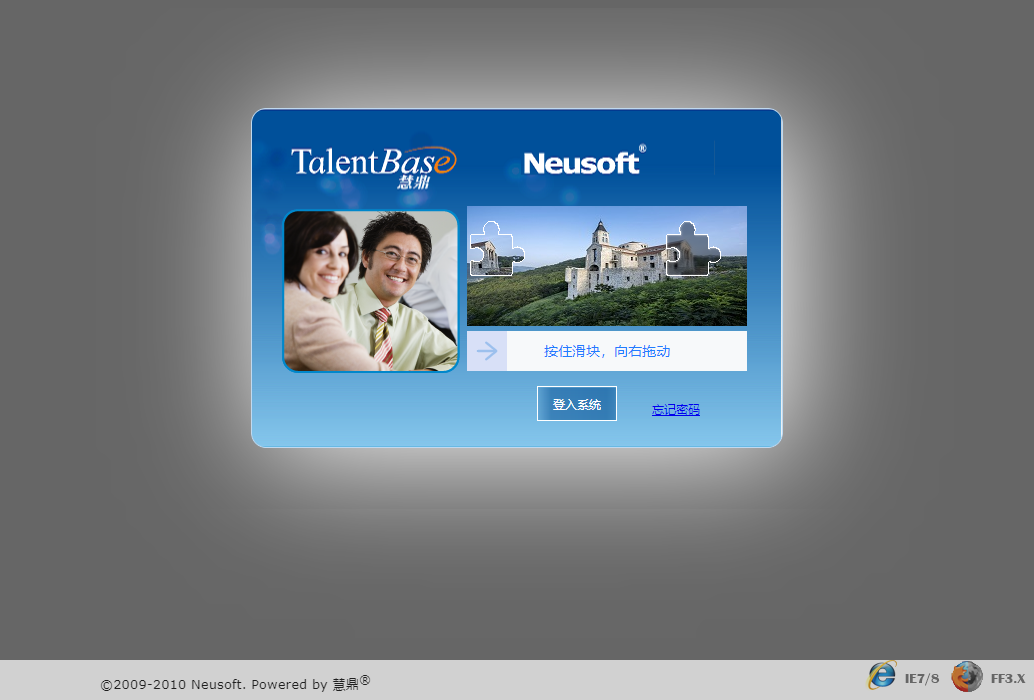
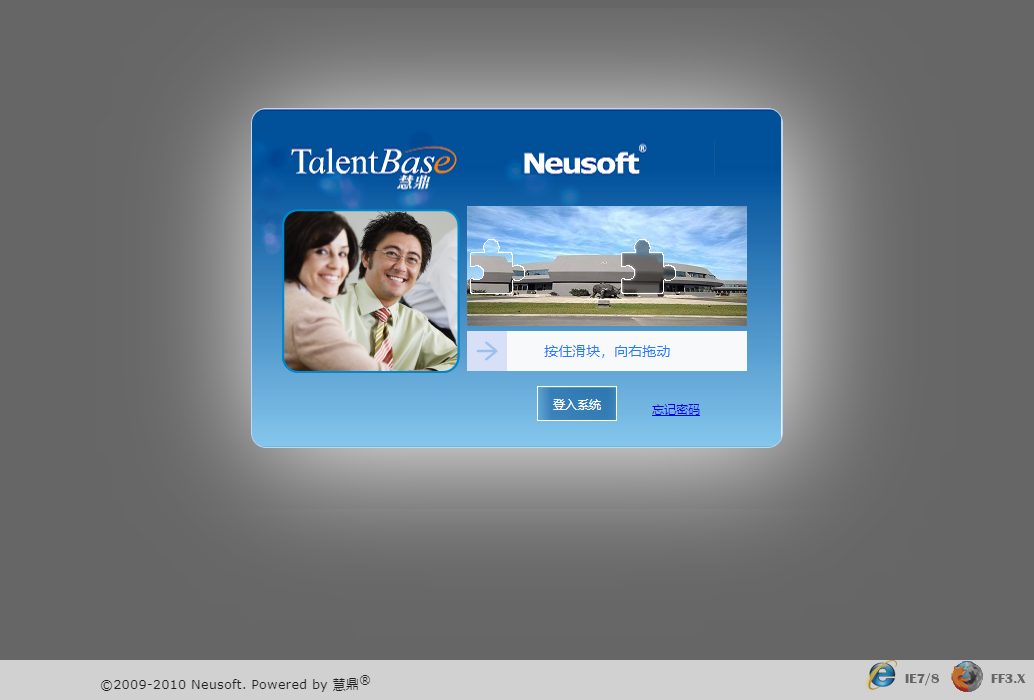
Add sign click and exit click invoke

Changed region(s): [[0.4333, 0.27, 0.7427, 0.48]]

diff --git a/Python_Kq/page1.html b/Python_Kq/page1.html
@@ -112,9 +112,9 @@
 				<input type="hidden" name="login" value="true">
 				<div style="display:none; ">
 				<input type="text" name="neusoft_attendance_online">
-				<input type="text" name="KEY1647932010692">
-				<input type="hidden" name="neusoft_key" value="ID1647932010692PWD1647932010692">				
-				<input type="hidden" name="YZMWkpJv5yKplL2vLPG7hBJBxWqp16CJT1XQ0qDdFRsWDV57VJqnJTn!-1312877719!1647932010692" class="imageRandeCode" value="">				
+				<input type="text" name="KEY1647941685932">
+				<input type="hidden" name="neusoft_key" value="ID1647941685932PWD1647941685932">				
+				<input type="hidden" name="YZM21klv5YVPyGCxJPJSwwdCCGL5sjhGvRyt1PC48p6Zcw72JTyrTWD!-1312877719!1647941685932" class="imageRandeCode" value="">				
 				</div>
 				<div id="tbLogonPanel" class="tbLogonPanel">
 					<div class="logonSubmit">
@@ -123,17 +123,17 @@
 							</div>
 							<div>
 								<div class="brand eleWrapper" style="font-weight: bold;">东软考勤系统</div>
-								<div class="eleWrapperNew" title="请输入用户名"><input type="text" class="textfield userName" name="IDWkpJv5yKplL2vLPG7hBJBxWqp16CJT1XQ0qDdFRsWDV57VJqnJTn!-1312877719!1647932010692" id="nt1647932010692"></div>
-								<div class="eleWrapperNew" title="请输入密码"><input type="password" class="textfield password" name="KEYWkpJv5yKplL2vLPG7hBJBxWqp16CJT1XQ0qDdFRsWDV57VJqnJTn!-1312877719!1647932010692"></div>
+								<div class="eleWrapperNew" title="请输入用户名"><input type="text" class="textfield userName" name="ID21klv5YVPyGCxJPJSwwdCCGL5sjhGvRyt1PC48p6Zcw72JTyrTWD!-1312877719!1647941685932" id="nt1647941685932"></div>
+								<div class="eleWrapperNew" title="请输入密码"><input type="password" class="textfield password" name="KEY21klv5YVPyGCxJPJSwwdCCGL5sjhGvRyt1PC48p6Zcw72JTyrTWD!-1312877719!1647941685932"></div>
 								<!-- <p></p> -->
 
 			    
                                 <div class="jigsaw" style="display:none;">
                                 <div class="jigimgB">
-                                <img src="/upload/jigsawImg/1951b185-22f6-49fa-b0ea-2ccca6e295d4.png" id="bigImage" onload="clearB()">                          
+                                <img src="/upload/jigsawImg/e49fd2b1-fcbe-462b-92be-4640ec7aff43.png" id="bigImage" onload="clearB()">                          
                                 </div>
-                                <div class="jigimgS" style="top: 15px; left: 0px;">
-                                <img src="/upload/jigsawImg/0c94ca83-51ea-418b-bdbe-e4b08a0cb986.png" id="smallImage" onload="clearS()">                   
+                                <div class="jigimgS" style="top: 33px; left: 0px;">
+                                <img src="/upload/jigsawImg/199db59e-d967-47a1-85dd-b7943da79a46.png" id="smallImage" onload="clearS()">                   
                                 </div>
                                 </div>
                                 <div id="j_sliderVerify" class="slider" style="width:280px;height:40px;margin:5px 0 15px 185px;position: relative;"><div class="ui-slider-wrap" style="width: 280px; height: 40px; background-color: rgb(247, 249, 250);"><div class="ui-slider-text ui-slider-no-select" style="line-height: 40px; font-size: 14px; color: rgb(33, 124, 255);">按住滑块，向右拖动</div><div class="ui-slider-btn init ui-slider-no-select" style="width: 40px; height: 40px; line-height: 40px;"></div><div class="ui-slider-bg" style="height: 40px; background-color: rgb(209, 233, 254);"></div></div></div>
@@ -161,7 +161,7 @@
 		</div>
 
 <script>
-document.getElementById("nt1647932010692").focus();
+document.getElementById("nt1647941685932").focus();
 var startDate = "";
 var endDate = "";
 var xWidth = "";

diff --git a/Python_Kq/autoDesk.py b/Python_Kq/autoDesk.py
@@ -107,16 +107,16 @@ def main():
         if success in verify_text.text:
             break
 
-    driver.find_element_by_class_name("userName").send_keys("gaoyunpeng")
-    driver.find_element_by_class_name("password").send_keys("779292199Xh")
+    driver.find_element_by_class_name("userName").send_keys("tengyb")
+    driver.find_element_by_class_name("password").send_keys("18345093167ASdgy123")
 
     driver.find_element_by_id("loginButton").click()
     with open('page2.html', 'w') as f:
         f.write(driver.page_source)
     time.sleep(0.5)
-    #driver.find_element_by_xpath('//a[@href="'+"javascript:document.attendanceForm.submit();"+'"]').click()
+    driver.find_element_by_xpath('//a[@href="'+"javascript:document.attendanceForm.submit();"+'"]').click()
     time.sleep(0.5)
-    #driver.find_element_by_xpath('//a[@href="'+"javascript:exitAttendance();"+'"]').click()
+    driver.find_element_by_xpath('//a[@href="'+"javascript:exitAttendance();"+'"]').click()
     driver.close()
     driver.quit()
     os.system('/bin/rm -fr imgs')
